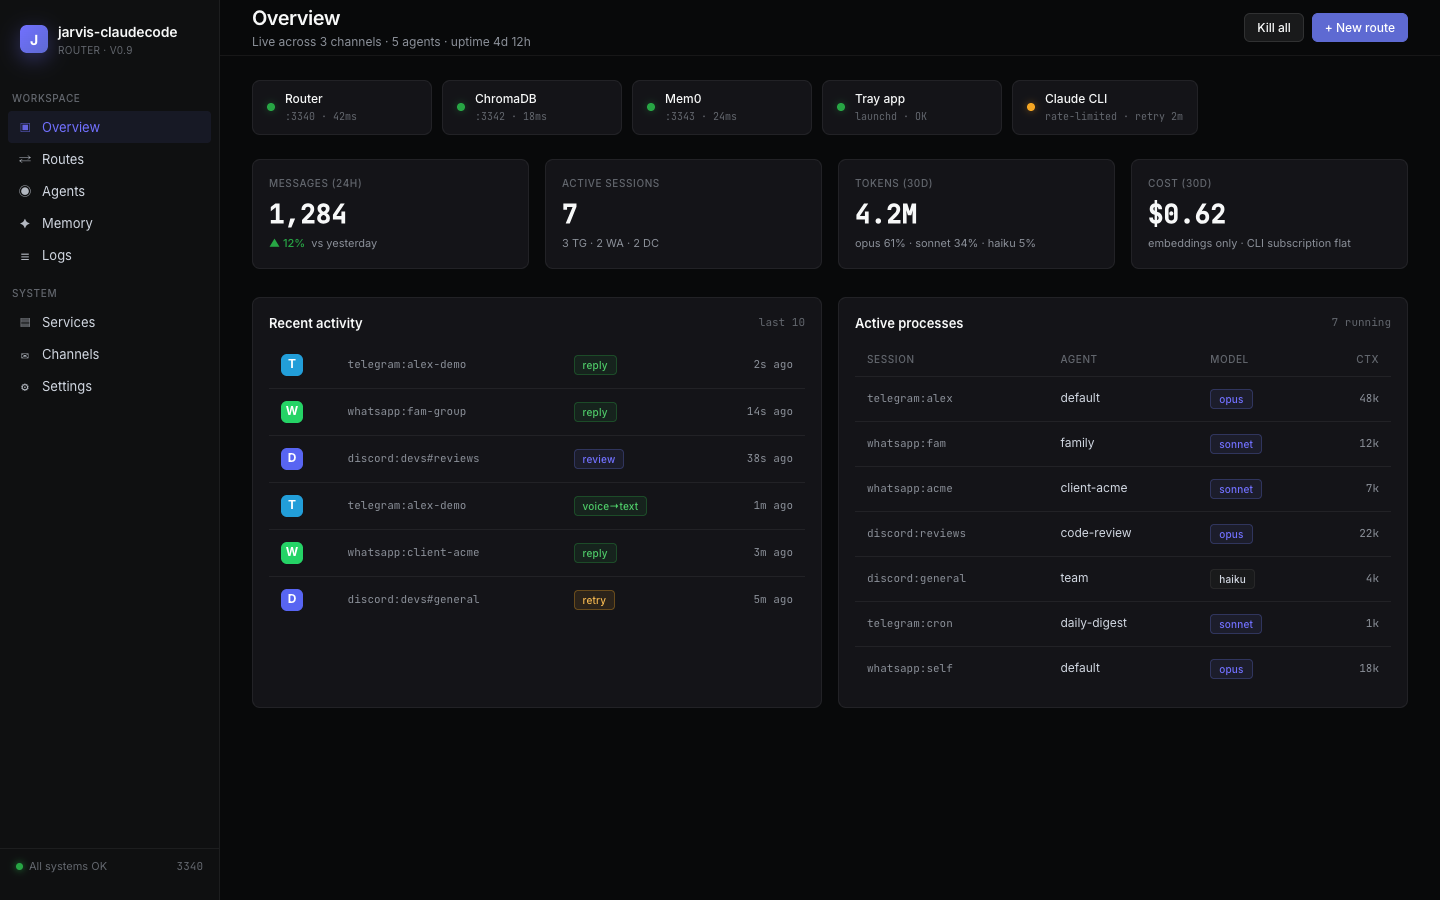
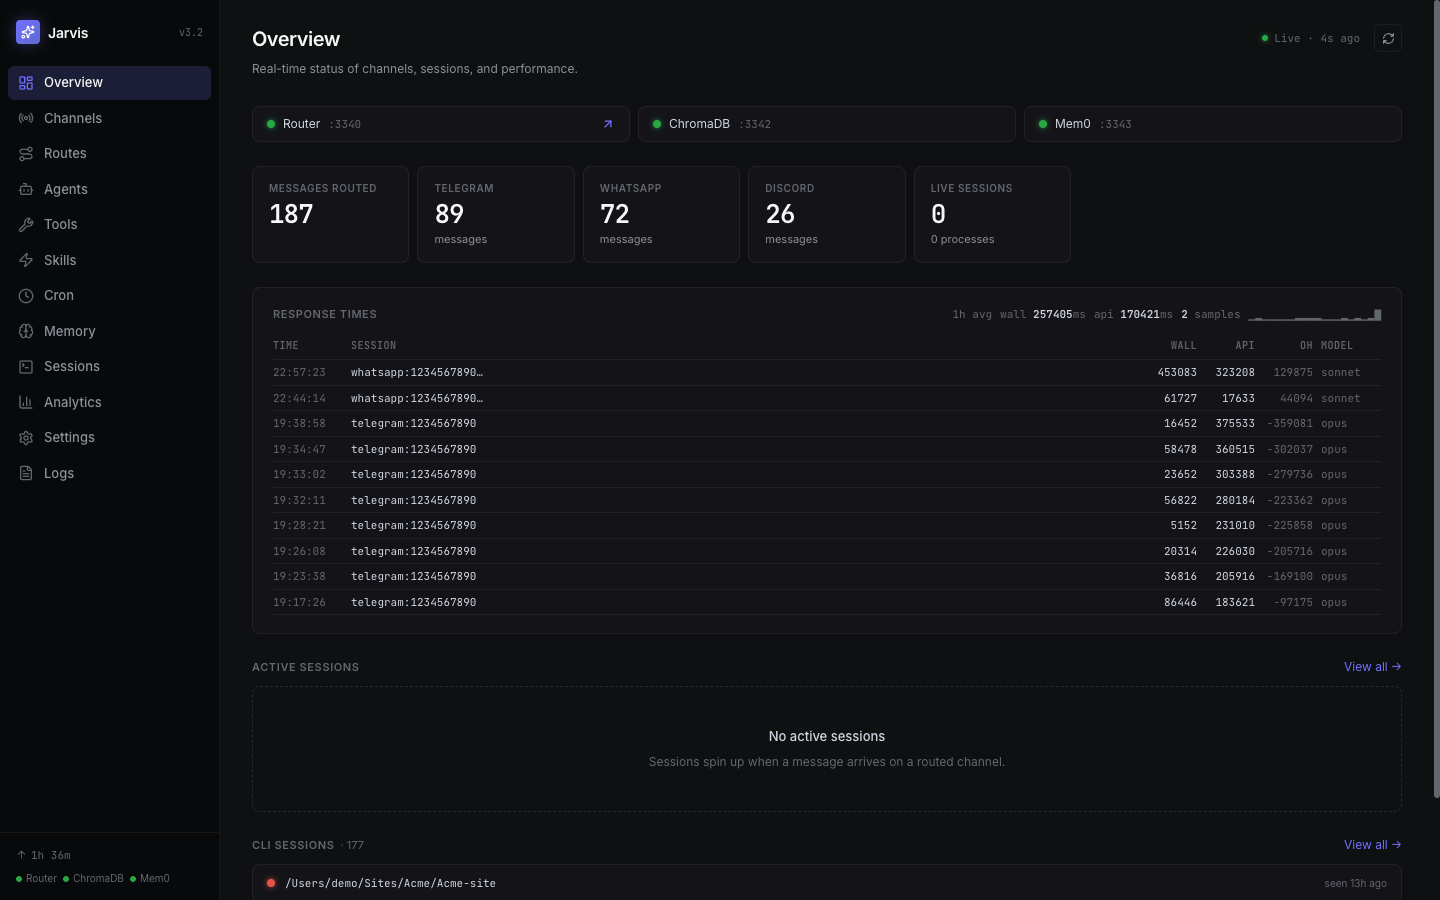
docs: replace mockups with real dashboard screenshots
Captured screenshots from the actual running React dashboard
(localhost:3340) instead of the static HTML replica — so README now
reflects the real UI pixel-for-pixel, including:

- Overview with live service ribbon, response-times table, active
  sessions, and CLI session tracking
- Routes with real route cards and agent jump links
- Agents with scope badges and session counts
- Tools grid across vision/voice/docs/email/calendar/memory/system/MCP
- Analytics with cost ($), tokens, and per-key breakdown
- Memory grid browser
- Sessions list with workspace paths
- Live log stream with level filtering

All personally identifiable data (phone numbers, WhatsApp JIDs,
Discord/Telegram IDs, emails, first names, project/brand names, home
directory paths) is scrubbed at capture time via a DOM MutationObserver
sanitizer — no real data leaves the screenshots.

diff --git a/README.md b/README.md
@@ -80,8 +80,12 @@ Because each route maps to an agent folder (`agents/<name>/`) and each agent dec
 |---|---|
 | ![Routes](docs/images/dashboard-routes.png) | ![Agents](docs/images/dashboard-agents.png) |
 | **Routes** — one row per `(channel, match) → agent` mapping. Evaluated top-down, first match wins. | **Agents** — each agent is a folder with its own `CLAUDE.md`, tool list, memory scope, and model. |
-| ![Memory graph](docs/images/dashboard-memory.png) | ![Logs](docs/images/dashboard-logs.png) |
-| **Memory** — live 3D graph over ChromaDB documents and Mem0 facts, scoped per agent. | **Logs** — structured log stream with level filtering, search, and auto-scroll. |
+| ![Tools](docs/images/dashboard-tools.png) | ![Analytics](docs/images/dashboard-analytics.png) |
+| **Tools** — per-capability view across vision, voice, docs, email accounts, calendar, memory, system, and MCP. | **Analytics** — token usage and cost over time, broken down by agent / channel / model. |
+| ![Memory](docs/images/dashboard-memory.png) | ![Logs](docs/images/dashboard-logs.png) |
+| **Memory** — ChromaDB docs and Mem0 conversation facts scoped per agent, browsable as grid / list / graph. | **Logs** — structured log stream with level filtering, search, and auto-scroll. |
+| ![Sessions](docs/images/dashboard-sessions.png) | |
+| **Sessions** — active and past Claude Code CLI sessions, one per `(channel, from)` key, killable from the UI. | |
 
 ## Architecture at a Glance
 
